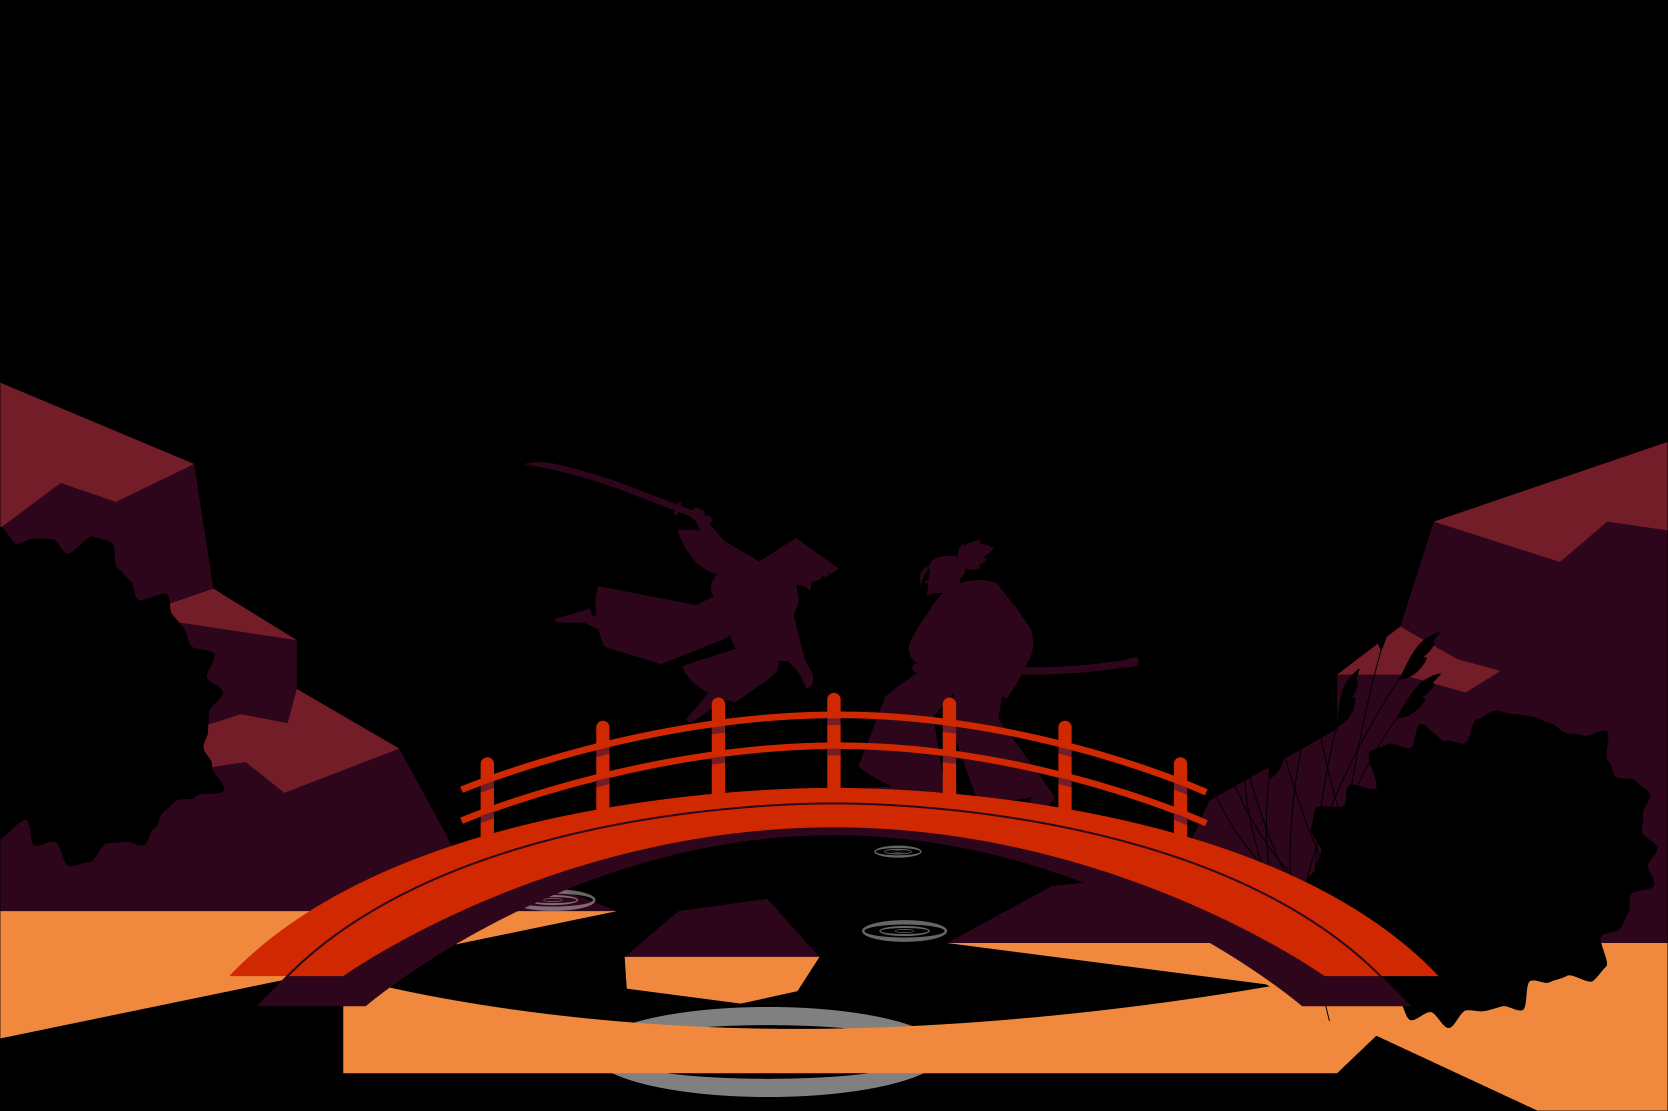
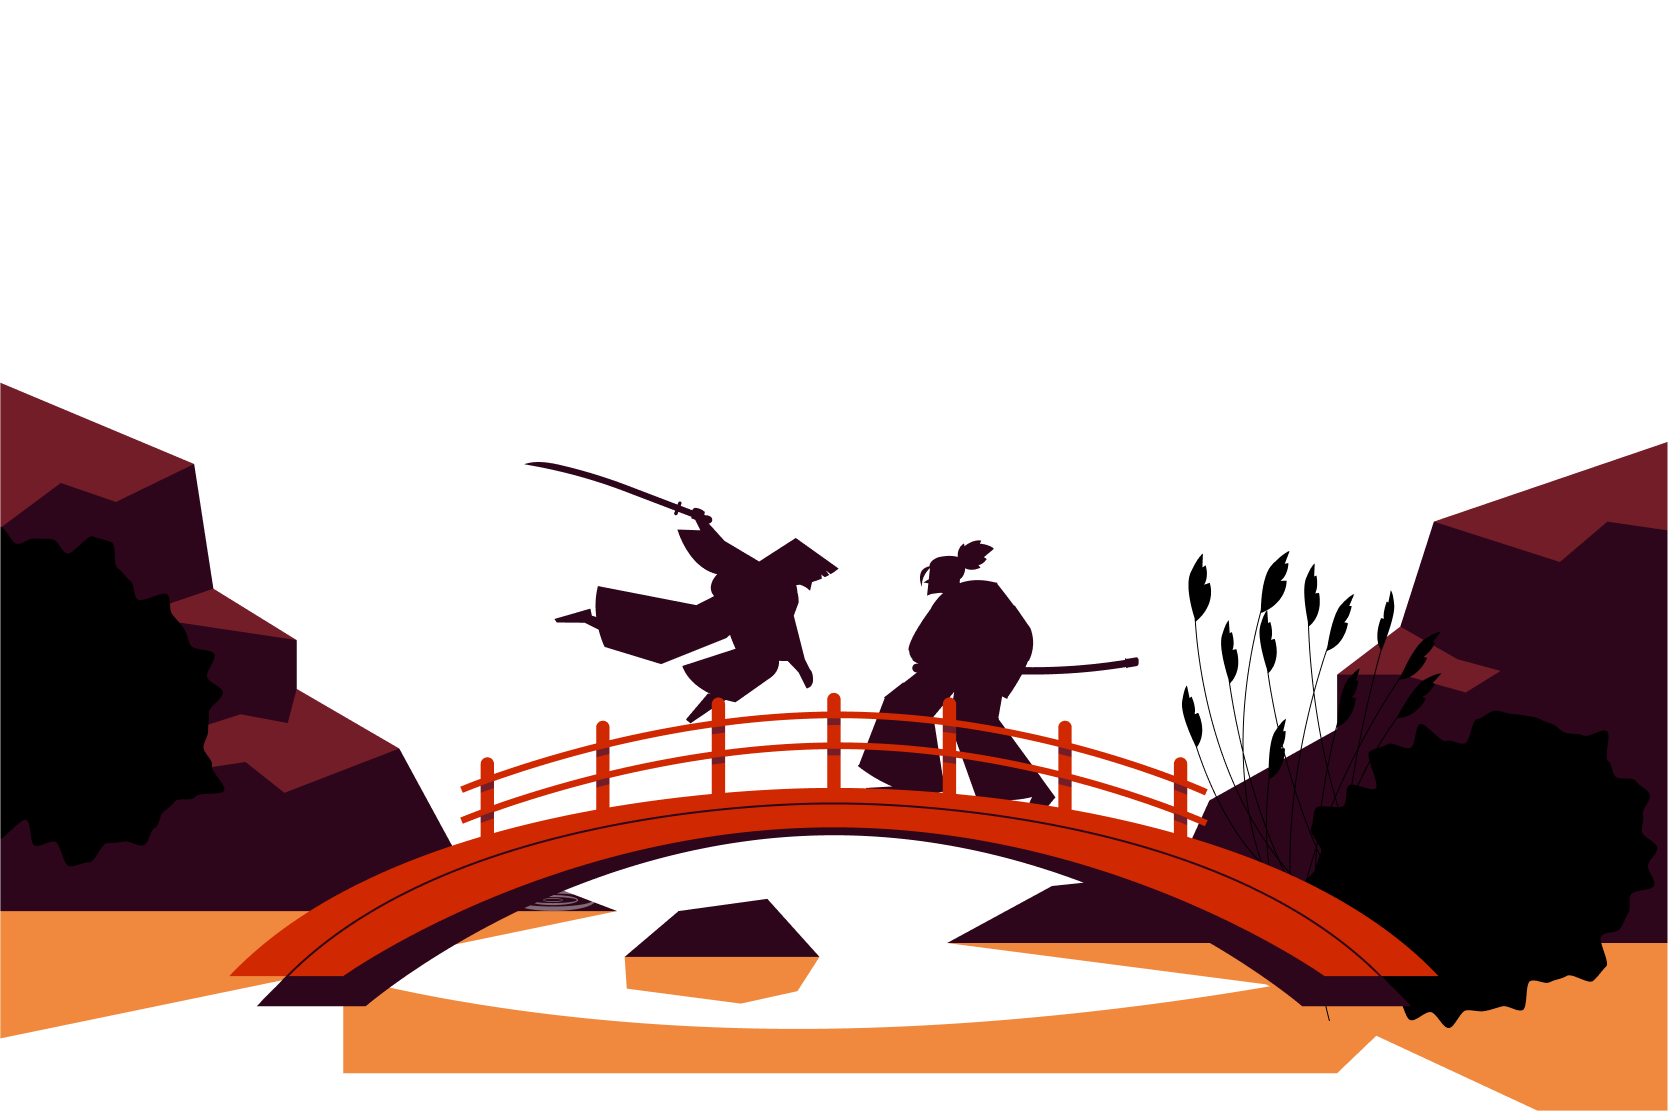
samurai animation

diff --git a/src/Components/Parallax/Parallax.js b/src/Components/Parallax/Parallax.js
@@ -23,50 +23,175 @@ export default function ParallaxSection() {
             height: "1101.45px",
           }}
         >
-          {/* <ParallaxLayer offset={0} speed={0.75} factor={3}>
-          <Bg />
-        </ParallaxLayer>
-        <ParallaxLayer offset={0} speed={0.25} factor={3}>
-          <Trees />
-        </ParallaxLayer>
-        <ParallaxLayer offset={0} speed={0.5} factor={3}>
-          <Samurai />
-        </ParallaxLayer> */}
           <ParallaxLayer offset={0} speed={0.75}>
-            <div class="w-[100%]">
-              <img
-                src={require("../Theme/Img/Parallax/bg1.png")}
-                alt="trees1"
-                style={{
-                  width: "100%",
-                  paddingBottom: "300px",
-                  backgroundSize: "cover",
-                  height: "100%",
-                }}
-              />
-            </div>
+            <Spring
+              delay={500}
+              config={{ duration: 2100 }}
+              from={{
+                width: "100%",
+                zIndex: 2,
+                opacity: 0,
+              }}
+              to={{
+                width: "100%",
+                zIndex: 2,
+                opacity: 1,
+              }}
+            >
+              {(style) => (
+                <animated.div style={style}>
+                  <div class="w-[100%]">
+                    <img
+                      src={require("../Theme/Img/Parallax/bg1.png")}
+                      alt="trees1"
+                      style={{ width: "100%", backgroundSize: "cover" }}
+                    />
+                  </div>
+                </animated.div>
+              )}
+            </Spring>
+          </ParallaxLayer>
+          <ParallaxLayer offset={0} speed={0.75}>
+            <Spring
+              delay={500}
+              config={{ duration: 2100 }}
+              from={{
+                width: "100%",
+                zIndex: 2,
+                opacity: 1,
+              }}
+              to={{
+                width: "100%",
+                zIndex: 2,
+                opacity: 0,
+              }}
+            >
+              {(style) => (
+                <animated.div style={style}>
+                  <div class="w-[100%]">
+                    <img
+                      src={require("../Theme/Img/Parallax/bg.png")}
+                      alt="samurai"
+                      style={{ width: "100%", backgroundSize: "cover" }}
+                    />
+                  </div>
+                </animated.div>
+              )}
+            </Spring>
           </ParallaxLayer>
           <ParallaxLayer offset={0} speed={0.25}>
-            <div class="w-[100%]">
-              <img
-                src={require("../Theme/Img/Parallax/trees1.png")}
-                alt="trees1"
-                style={{
-                  width: "100%",
-                  paddingBottom: "300px",
-                  backgroundSize: "cover",
-                }}
-              />
-            </div>
+            {" "}
+            <Spring
+              delay={500}
+              config={{ duration: 2500 }}
+              from={{
+                width: "100%",
+                zIndex: 2,
+                opacity: 0,
+              }}
+              to={{
+                width: "100%",
+                zIndex: 2,
+                opacity: 1,
+              }}
+            >
+              {(style) => (
+                <animated.div style={style}>
+                  <div class="w-[100%]">
+                    <img
+                      src={require("../Theme/Img/Parallax/trees1.png")}
+                      alt="trees1"
+                      style={{ width: "100%", backgroundSize: "cover" }}
+                    />
+                  </div>
+                </animated.div>
+              )}
+            </Spring>
+          </ParallaxLayer>
+          <ParallaxLayer offset={0} speed={0.25}>
+            {" "}
+            <Spring
+              delay={500}
+              config={{ duration: 2500 }}
+              from={{
+                width: "100%",
+                zIndex: 2,
+                opacity: 1,
+              }}
+              to={{
+                width: "100%",
+                zIndex: 2,
+                opacity: 0,
+              }}
+            >
+              {(style) => (
+                <animated.div style={style}>
+                  <div class="w-[100%]">
+                    <img
+                      src={require("../Theme/Img/Parallax/trees.png")}
+                      alt="trees1"
+                      style={{ width: "100%", backgroundSize: "cover" }}
+                    />
+                  </div>
+                </animated.div>
+              )}
+            </Spring>
           </ParallaxLayer>
           <ParallaxLayer offset={0} speed={0.5}>
-            <div class="w-[100%]">
-              <img
-                src={require("../Theme/Img/Parallax/samurai1.png")}
-                alt="trees1"
-                style={{ width: "100%", backgroundSize: "cover" }}
-              />
-            </div>
+            <Spring
+              delay={500}
+              config={{ duration: 3000 }}
+              from={{
+                width: "100%",
+                zIndex: 2,
+                opacity: 1,
+              }}
+              to={{
+                width: "100%",
+                zIndex: 2,
+                opacity: 0,
+              }}
+            >
+              {(style) => (
+                <animated.div style={style}>
+                  <div class="w-[100%]">
+                    <img
+                      src={require("../Theme/Img/Parallax/samurai.png")}
+                      alt="samurai"
+                      style={{ width: "100%", backgroundSize: "cover" }}
+                    />
+                  </div>
+                </animated.div>
+              )}
+            </Spring>
+          </ParallaxLayer>
+          <ParallaxLayer offset={0} speed={0.5}>
+            <Spring
+              delay={500}
+              config={{ duration: 3000 }}
+              from={{
+                width: "100%",
+                zIndex: 2,
+                opacity: 0,
+              }}
+              to={{
+                width: "100%",
+                zIndex: 2,
+                opacity: 1,
+              }}
+            >
+              {(style) => (
+                <animated.div style={style}>
+                  <div class="w-[100%]">
+                    <img
+                      src={require("../Theme/Img/Parallax/samurai1.png")}
+                      alt="trees1"
+                      style={{ width: "100%", backgroundSize: "cover" }}
+                    />
+                  </div>
+                </animated.div>
+              )}
+            </Spring>
           </ParallaxLayer>
         </Parallax>
       </div>
